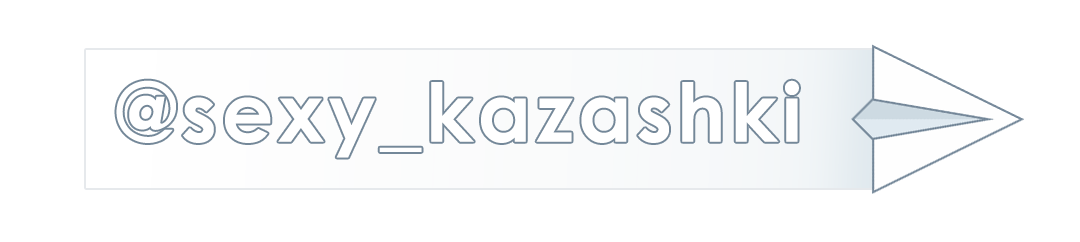
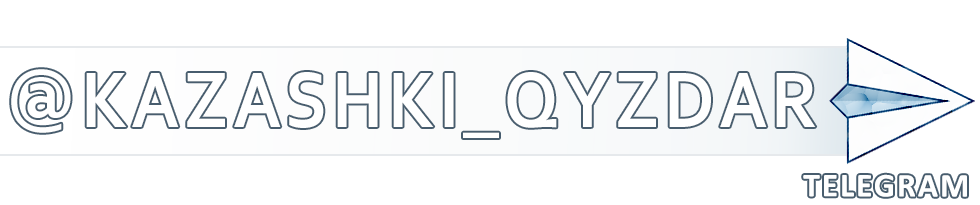
новый watermark. возможность начал скачивание с нужного номера поста

Changed region(s): [[0.0, 0.1756, 1.0, 0.7902], [0.7959, 0.8195, 1.0, 0.9951], [0.0, 0.7317, 0.1531, 0.761]]

diff --git a/bot.py b/bot.py
@@ -34,7 +34,7 @@ async def command_start(message: types.Message):
         await message.answer("Привет Босс!\n"
                              "Нажми /set_commands чтобы установить базовые команды")
     else:
-        await message.answer("Несанкционированный доступ!")
+        await message.answer("https://t.me/kazashki_qyzdar  - основной канал тут")
 
 
 @dp.message_handler(commands=["send_100_photo"])
@@ -53,12 +53,12 @@ async def command_send_100_photo(message: types.Message):
                 media = [InputMediaPhoto(open(images_folder + images_names[0], 'rb'), message)]
                 for photo_name in images_names[1:bot_config.POST_IN_ONE_TIME]:
                     media.append(InputMediaPhoto(open(images_folder + photo_name, 'rb')))
-                await bot.send_media_group(bot_config.CHAT_NAME, media)
+                await bot.send_media_group(bot_config.CHANNEL_NAME, media)
                 functions.delete_images(images_names)
                 time.sleep(60)
             await bot.send_message(bot_config.ADMIN_ID, 'Все 100 фотографии опубликованы')
     else:
-        await message.answer("Несанкционированный доступ!")
+        await message.answer("https://t.me/kazashki_qyzdar  - основной канал тут")
 
 
 async def send_group_of_photos_to_chat(message: str, count: int = bot_config.POST_IN_ONE_TIME) -> None:
@@ -77,7 +77,7 @@ async def send_group_of_photos_to_chat(message: str, count: int = bot_config.POS
         media = [InputMediaPhoto(open(images_folder + images_names[0], 'rb'), message)]
         for photo_name in images_names[1:count]:
             media.append(InputMediaPhoto(open(images_folder + photo_name, 'rb')))
-        await bot.send_media_group(bot_config.CHAT_NAME, media)
+        await bot.send_media_group(bot_config.CHANNEL_NAME, media)
         functions.delete_images(images_names)
 
 
@@ -109,7 +109,7 @@ async def command_statistic(message: types.Message):
                f"Будет публиковаться: {posts_day_count} дней"
         await message.answer(text)
     else:
-        await message.answer("Несанкционированный доступ!")
+        await message.answer("https://t.me/kazashki_qyzdar  - основной канал тут")
 
 
 @dp.message_handler()
@@ -122,10 +122,15 @@ async def echo(message: types.Message):
             await message.answer(f"Фотографии из ссылки добавлены в базу под именем\n"
                                  f"{image_name}")
         else:
-            nickname = message.text
+            my_message = message.text.strip().split()
+            nickname = my_message[0]
+            try:
+                download_start_with = int(my_message[1])
+            except IndexError:
+                download_start_with = 0
             if not bool(Nicknames.check_data_in_json_file(nickname)):
                 Nicknames.insert_new_data_in_json_file(nickname)
-            functions.download_all_user_photos(insta_bot, nickname)
+            functions.download_all_user_photos(insta_bot, nickname, download_start_with)
             await message.answer("Фотографии пользователя добавлены в базу")
     else:
-        await message.answer("Несанкционированный доступ!")
+        await message.answer("https://t.me/kazashki_qyzdar  - основной канал тут")

diff --git a/main.py b/main.py
@@ -1,4 +1,5 @@
 import asyncio
+import bot_config
 import aioschedule
 from aiogram import executor
 from functions import create_base_directory
@@ -11,11 +12,15 @@ async def scheduler() -> None:
     Каждый день в указанное время отправляет фотографии в телеграм канал
     Каждый понедельник, среду и пятницу обновляет базу фотографий по сохраненным никнеймам
     """
-    aioschedule.every().day.at('8:30').do(send_group_of_photos_to_chat, message='Утренняя подборка красавиц')
-    aioschedule.every().day.at('19:30').do(send_group_of_photos_to_chat, message='Вечерняя подборка секси казашек')
-    aioschedule.every().monday.at('5:00').do(update_db)
-    aioschedule.every().wednesday.at('5:00').do(update_db)
-    aioschedule.every().friday.at('5:00').do(update_db)
+    aioschedule.every().day.at(bot_config.MORNING_POST_TIME).do(send_group_of_photos_to_chat,
+                                                                message='Утренняя подборка красавиц казашек\n'
+                                                                        'Қазақ қыздарының сұлуларының таңғы таңдауы')
+    aioschedule.every().day.at(bot_config.NIGHT_POST_TIME).do(send_group_of_photos_to_chat,
+                                                              message='Вечерняя подборка красавиц казашек\n'
+                                                                      'Қазақ қыздарының сұлуларының кешкі таңдауы')
+    aioschedule.every().monday.at(bot_config.PHOTO_DB_UPDATE_TIME).do(update_db)
+    aioschedule.every().wednesday.at(bot_config.PHOTO_DB_UPDATE_TIME).do(update_db)
+    aioschedule.every().friday.at(bot_config.PHOTO_DB_UPDATE_TIME).do(update_db)
     while True:
         await aioschedule.run_pending()
         await asyncio.sleep(1)

diff --git a/functions.py b/functions.py
@@ -187,14 +187,15 @@ def download_photo_by_media_id(my_bot: object, media_id: int, filename: str,
                         f.write(content)
 
 
-def download_all_user_photos(my_bot: object, nickname: str) -> None:
+def download_all_user_photos(my_bot: object, nickname: str, download_start_with: int) -> None:
     """
     Получить все фотографии пользователя
     :param my_bot: класс Bot из библиотеки instabot
     :param nickname: имя пользователя в инстаграмме
+    :param download_start_with: начать скачивание с media под номером n
     """
     all_medias = my_bot.get_total_user_medias(nickname)
-    create_threads(my_bot, all_medias, nickname)
+    create_threads(my_bot, all_medias, nickname, start_with=download_start_with)
 
 
 def download_last_user_photos(my_bot: object, nickname: str) -> None:

diff --git a/potoki.py b/potoki.py
@@ -50,12 +50,12 @@ class ImagesDownloadsThread(Thread):
                             f.write(content)
 
 
-def create_threads(my_bot: object, all_medias: list, nickname: str, time_to_sleep: int = bot_config.TIME_TO_SLEEP,
-                   start_with: int = bot_config.DOWNLOAD_START_WITH):
+def create_threads(my_bot: object, all_medias: list, nickname: str, start_with: int,
+                   time_to_sleep: int = bot_config.TIME_TO_SLEEP):
     """
     Создаем группу потоков
-    time.sleep(3) - без этого параметра instagram кидает бан на час.
-    3 секунды - оптимальный вариант
+    time.sleep(5) - без этого параметра instagram кидает бан на час.
+    5 секунд - оптимальный вариант
     """
     for i, media_id in enumerate(all_medias):
         if i >= start_with:

diff --git a/bot_config.py b/bot_config.py
@@ -7,10 +7,13 @@ BASE_FOLDER_NAMES = ["db", "photos"]
 INST_USERNAME = os.getenv('INST_USERNAME')
 INST_PASSWORD = os.getenv('INST_PASSWORD')
 ADMIN_ID = int(os.getenv('ADMIN_ID'))
-CHAT_NAME = os.getenv('CHAT_NAME')
+CHANNEL_NAME = os.getenv('CHANNEL_NAME')
+CHANNEL_ADDRESS = os.getenv('CHANNEL_ADDRESS')
 BOT_TOKEN = os.getenv('BOT_TOKEN')
 POST_IN_DAY = 20
 POST_IN_ONE_TIME = 10
 PHOTO_SAVE_FOLDER_NAME = 'photos'
 TIME_TO_SLEEP = 5
-DOWNLOAD_START_WITH = 0
+MORNING_POST_TIME = '8:30'
+NIGHT_POST_TIME = '19:30'
+PHOTO_DB_UPDATE_TIME = '5:00'
